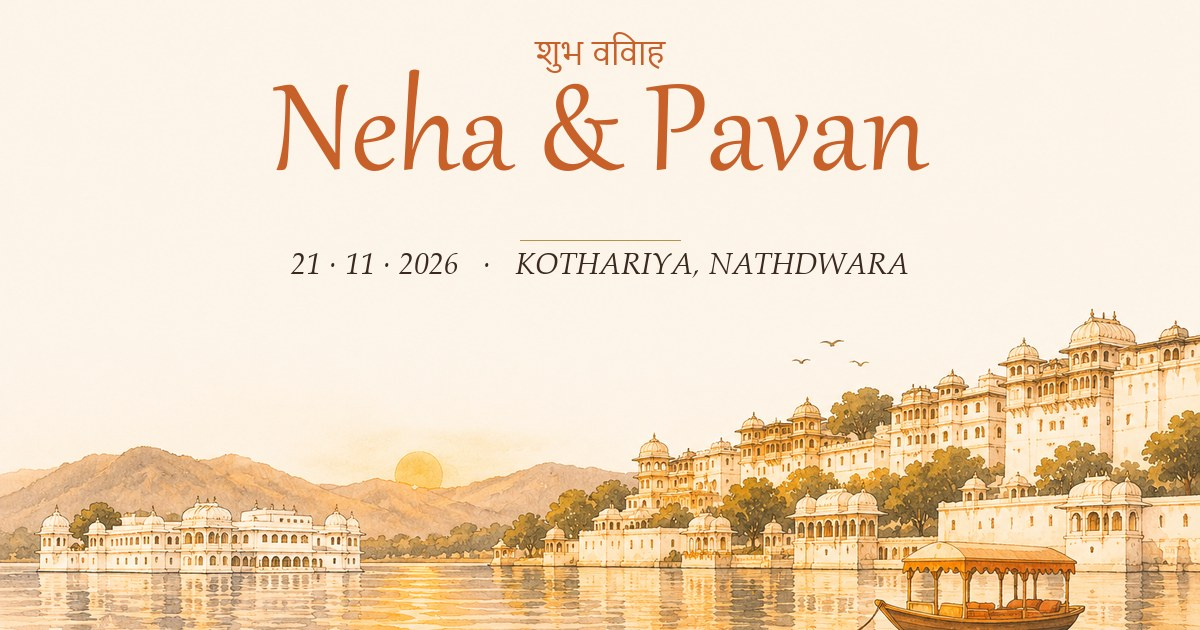
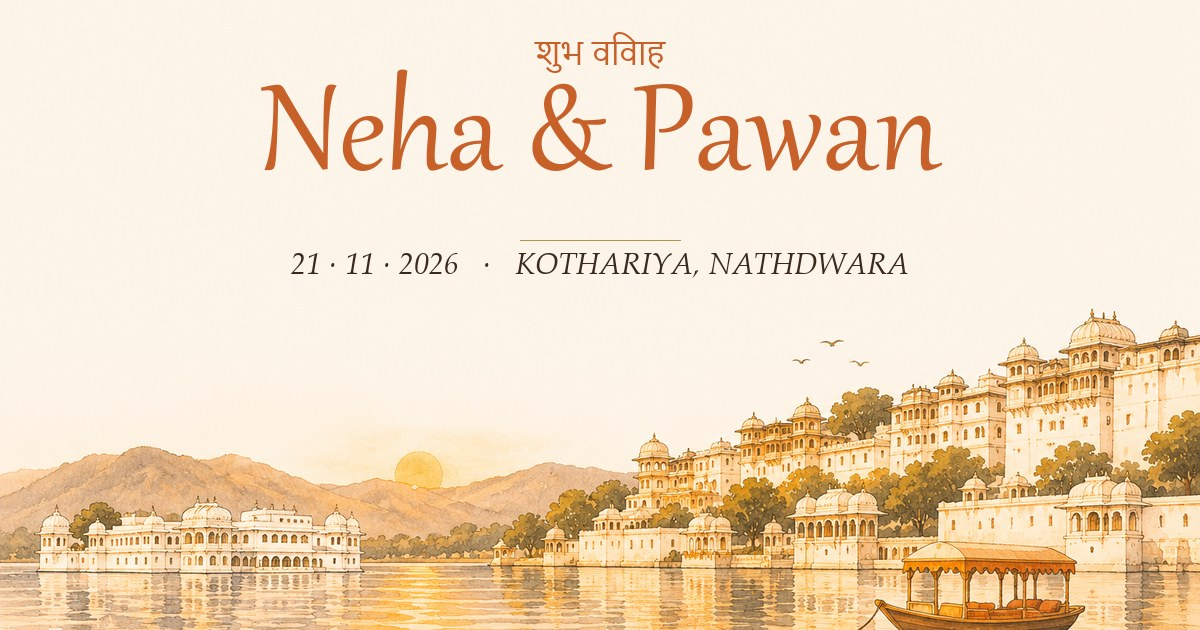
Spell the groom's name Pawan

Changed region(s): [[0.2158, 0.0905, 0.8017, 0.2714]]

diff --git a/src/app/layout.tsx b/src/app/layout.tsx
@@ -22,22 +22,22 @@ const tiroDevanagari = Tiro_Devanagari_Hindi({
 });
 
 const SITE_URL = process.env.NEXT_PUBLIC_SITE_URL ?? "https://wedding-invitation.bpss.in";
-const TITLE = "Neha & Pavan · Wedding Invitation";
+const TITLE = "Neha & Pawan · Wedding Invitation";
 const DESCRIPTION =
-  "With the blessings of Shri Vinayak ji and Kuldevi Ashapura Maa, you are warmly invited to the wedding of Neha Kanwar and Kunwar Pavan Singh · 15–21 November 2026 · Kothariya, Nathdwara.";
-const OG_IMAGE = { url: "/og.jpg", width: 1200, height: 630, alt: "Neha & Pavan · 21 November 2026 · Kothariya, Nathdwara" };
+  "With the blessings of Shri Vinayak ji and Kuldevi Ashapura Maa, you are warmly invited to the wedding of Neha Kanwar and Kunwar Pawan Singh · 15–21 November 2026 · Kothariya, Nathdwara.";
+const OG_IMAGE = { url: "/og.jpg", width: 1200, height: 630, alt: "Neha & Pawan · 21 November 2026 · Kothariya, Nathdwara" };
 
 export const metadata: Metadata = {
   metadataBase: new URL(SITE_URL),
-  title: "Neha & Pavan · मंगल परिणयोत्सव",
+  title: "Neha & Pawan · मंगल परिणयोत्सव",
   description: DESCRIPTION,
-  applicationName: "Neha & Pavan",
+  applicationName: "Neha & Pawan",
   authors: [{ name: "bpss", url: "https://bpss.in" }],
   creator: "bpss.in",
   keywords: [
-    "Neha weds Pavan",
+    "Neha weds Pawan",
     "Neha Kanwar",
-    "Pavan Singh Shekhawat",
+    "Pawan Singh Shekhawat",
     "wedding invitation",
     "शुभ विवाह",
     "Kothariya",
@@ -48,7 +48,7 @@ export const metadata: Metadata = {
   openGraph: {
     type: "website",
     url: "/",
-    siteName: "Neha & Pavan",
+    siteName: "Neha & Pawan",
     locale: "en_IN",
     title: TITLE,
     description: "15–21 November 2026 · Kothariya, Nathdwara",
@@ -60,7 +60,7 @@ export const metadata: Metadata = {
     description: "15–21 November 2026 · Kothariya, Nathdwara",
     images: [OG_IMAGE],
   },
-  appleWebApp: { title: "Neha & Pavan", statusBarStyle: "default" },
+  appleWebApp: { title: "Neha & Pawan", statusBarStyle: "default" },
   formatDetection: { telephone: false },
 };
 

diff --git a/src/components/Closing.tsx b/src/components/Closing.tsx
@@ -169,7 +169,7 @@ export function Footer() {
           आपका आगमन ही हमारे लिए गौरव की अनुभूति होगी ।
         </p>
         <p className="mt-2 text-lg italic text-ink/65">Your presence will be our honour.</p>
-        <p className="mt-8 font-script text-5xl text-saffron">Neha &amp; Pavan</p>
+        <p className="mt-8 font-script text-5xl text-saffron">Neha &amp; Pawan</p>
         <p className="mt-2 text-sm uppercase tracking-[0.35em] text-gold">21 · 11 · 2026</p>
       </Reveal>
       <p className="absolute bottom-4 z-10 rounded-full bg-ivory/85 px-4 py-1.5 text-xs tracking-[0.2em] text-ink/70">

diff --git a/src/data/wedding.ts b/src/data/wedding.ts
@@ -53,7 +53,7 @@ export const bride = {
 };
 
 export const groom = {
-  name: "Pavan Singh",
+  name: "Pawan Singh",
   nameHi: "आयुष्मान कुं. पवन सिंह",
   grandsonOfHi: "स्व. श्रीमती एवं स्व. ठा.सा. श्री प्रेमसिंह जी शेखावत",
   sonOfHi: "श्रीमती एवं ठा.सा. श्री प्रतापसिंह जी शेखावत",

diff --git a/src/components/Envelope.tsx b/src/components/Envelope.tsx
@@ -86,7 +86,7 @@ export function Envelope() {
         </div>
 
         <div className="absolute inset-x-0 bottom-[9%] text-center">
-          <p className="font-script text-3xl text-saffron">Neha &amp; Pavan</p>
+          <p className="font-script text-3xl text-saffron">Neha &amp; Pawan</p>
           <p className="mt-1 text-[11px] uppercase tracking-[0.4em] text-gold">
             Tap to open
           </p>
